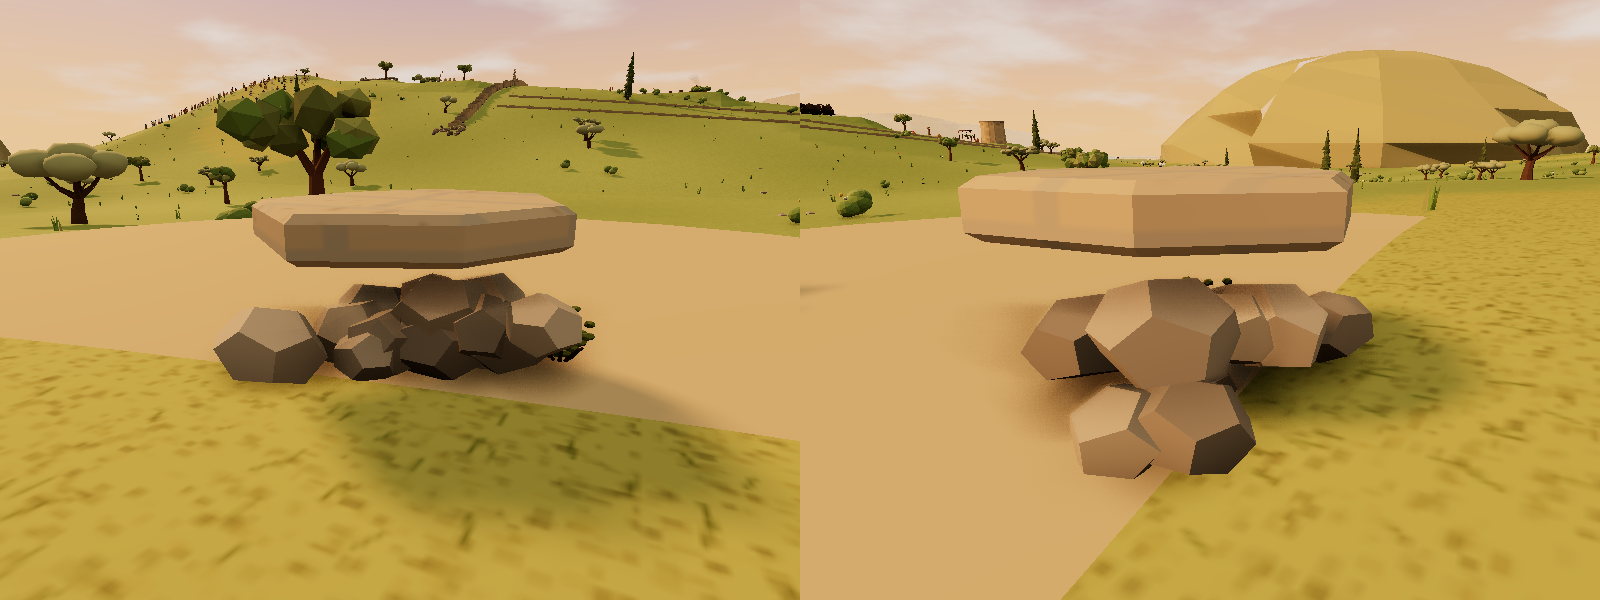
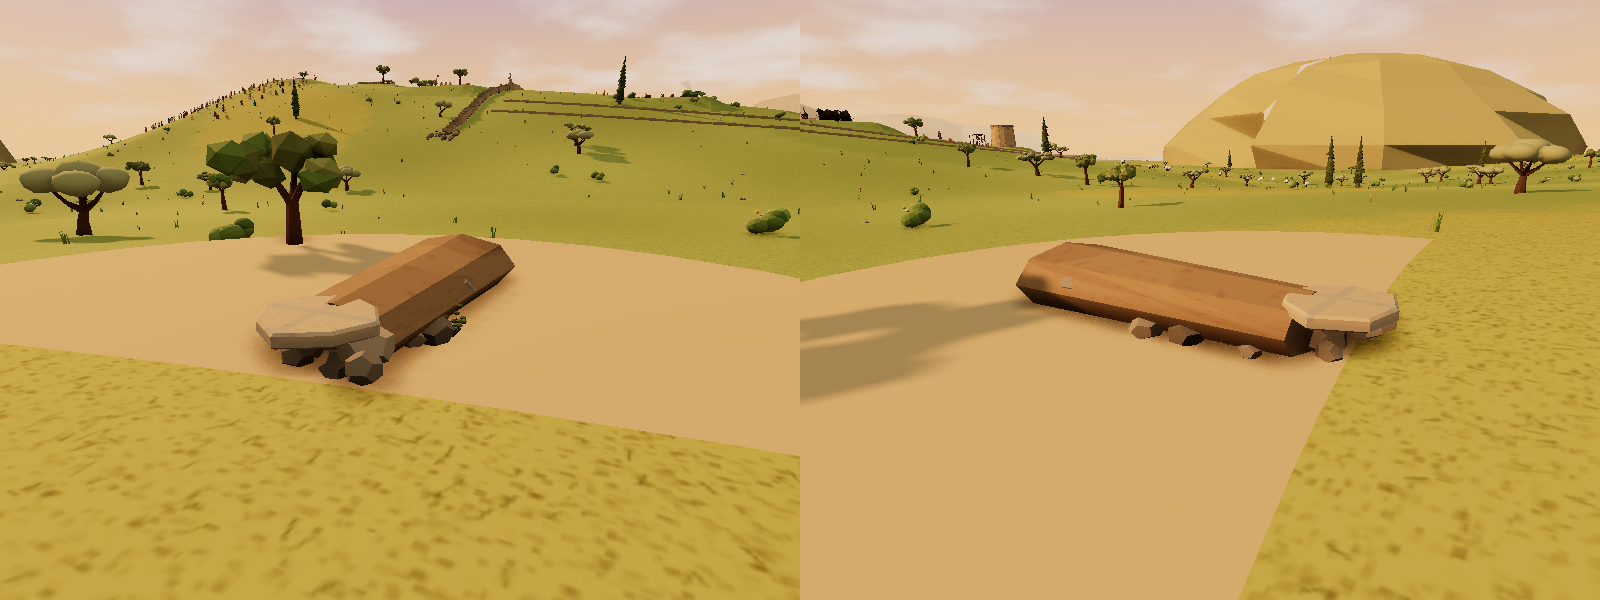
som models: terracotta hive stack on a coursed base, bank end with its bank, burn floor ring, tube-beam yoke
Claude-Session: https://claude.ai/code/session_011GTaBjBmrRYMxR8CbFEKPF

diff --git a/ltm-engine/objects/som.js b/ltm-engine/objects/som.js
@@ -91,14 +91,15 @@ def('som-mudbrick-wall', 'Low mud-brick wall of the yard', g => {
 
 // ---- the Ox Stall (6:21–25) ----
 def('som-yoke-on-peg', 'Yoke for two oxen, hung on its peg', g => {
-  dryWall(g, -1.3, -.4, 1.3, -.4, 2.0, .45);   // the stall's coursed stone wall behind
-  cy(g, .06, .06, .55, 8, mWoodDk, 0, 1.55, -.1, Math.PI / 2);   // one stout peg sticking out of the wall face
-  add(new THREE.TorusGeometry(.09, .022, 5, 10), mRope, 0, 1.5, .12, g);   // the cord loop over the peg
-  cy(g, .015, .015, .22, 4, mRope, 0, 1.38, .14);
-  const sh = new THREE.Shape(); sh.moveTo(-1, -.06); [[-.85, -.08], [-.75, -.1], [-.55, .02], [-.35, -.1], [-.2, -.08], [.2, -.08], [.35, -.1], [.55, .02], [.75, -.1], [.85, -.08], [1, -.06], [1, .1], [-1, .1]].forEach(([a, b]) => sh.lineTo(a, b));
-  add(new THREE.ExtrudeGeometry(sh, { depth: .16, bevelEnabled: true, bevelThickness: .02, bevelSize: .02, bevelSegments: 1 }), MM('somYokeWood', '#8e6a42', TEX.wood), 0, 1.18, .02, g);   // the carved beam hanging against the wall face, two neck hollows
-  for (const s of [-.55, .55]) { const bow = add(new THREE.TorusGeometry(.24, .04, 6, 16, Math.PI), mWoodLt, s, 1.16, .1, g); bow.rotation.z = Math.PI; for (const t of [-1, 1]) cy(g, .022, .022, .26, 5, mWoodDk, s + t * .24, 1.12, .1); }   // a U-bow hanging under each hollow
-  return 2.0; });
+  const fs = [mRock, mRockDk, MM('somFieldWarm', '#a8987c')]; for (let row = 0; row < 6; row++) for (let k = 0; k < 7; k++) { const b = boulder(g, R(.2, .26), fs[(row * 3 + k) % 3], -1.35 + k * .45 + (row % 2) * .22, row * .3 - .12, -.6, .9); if (b) b.scale.z = .5; }   // a rough fieldstone wall behind
+  cy(g, .05, .05, .45, 8, mWoodDk, 0, 1.62, -.15, Math.PI / 2);   // a stout peg in the wall
+  const wood = MM('somYokeWood', '#8e6a42', TEX.wood);
+  const pts = [[-1, -.06], [-.75, -.12], [-.55, -.02], [-.35, -.12], [0, -.04], [.35, -.12], [.55, -.02], [.75, -.12], [1, -.06]].map(([x, y]) => new THREE.Vector3(x, 1.25 + y, .22));
+  add(new THREE.TubeGeometry(new THREE.CatmullRomCurve3(pts), 30, .11, 10), wood, 0, 0, 0, g);   // a thick beam, carved with two neck hollows, hanging clear of the wall
+  for (const e of [-1, 1]) add(new THREE.SphereGeometry(.09, 8, 6), wood, e, 1.19, .22, g);
+  for (const s of [-.55, .55]) { const bow = add(new THREE.TorusGeometry(.25, .045, 6, 18, Math.PI), MM('somBowWood', '#b48a5a', TEX.wood), s, 1.16, .22, g); bow.rotation.z = Math.PI; }   // a bent wooden bow hanging under each hollow
+  const L = .36; const rp = cy(g, .018, .018, L, 4, mRope, 0, 1.44, .05); rp.rotation.x = .6;   // a short cord from the peg to the middle of the beam
+  return 1.75; });
 def('som-plough', 'Wooden plough (ard) with an iron share', g => {
   const sole = bx(g, .14, .12, 1.0, mWood, 0, .05, 0, 0, .15);   // the sole dragging along the ground
   const sh = new THREE.ConeGeometry(.09, .4, 4); sh.rotateX(Math.PI / 2); add(sh, mIron, 0, .02, .66, g).scale.x = 1.4;   // a big iron share on its point
@@ -227,28 +228,28 @@ def('som-charcoal-baskets', 'Rush baskets heaped with charcoal', g => {
     for (let i = 0; i < 34; i++) { const a = R(0, 6.3), d = Math.sqrt(R(0, 1)) * .36 * s; add(new THREE.DodecahedronGeometry(R(.05, .085), 0), coal, x + Math.cos(a) * d, .38 * s + (1 - d / (.36 * s)) * .2, z + Math.sin(a) * d, g).rotation.set(R(0, 3), R(0, 3), 0); } }   // a mounded heap of dark grey chunks
   return .7; });
 def('som-ash-ring', 'Old burn floor of an earlier mound', g => {
-  const floor = MM('somBurnFloor', '#4a4540'), floor2 = MM('somBurnFloor2', '#5c544a', null, { transparent: true, opacity: .7 }), coal = MM('somCoalG2', '#2e2b28'), ash = MM('somAshL', '#9c9890');
-  const blot = (r, m, y, n = 14) => { const sh = new THREE.Shape(); for (let i = 0; i < n; i++) { const a = i / n * 6.283, rr = r * R(.6, 1.15); i ? sh.lineTo(Math.cos(a) * rr, Math.sin(a) * rr) : sh.moveTo(Math.cos(a) * rr, Math.sin(a) * rr); } const o = add(new THREE.ShapeGeometry(sh), m, 0, y, 0, g); o.rotation.x = -Math.PI / 2; return o; };
-  blot(1.5, floor, .05, 18);   // a ragged-edged patch of blackened earth
-  for (let i = 0; i < 9; i++) { const o = blot(R(.3, .7), i % 2 ? floor : floor2, .045 + i * .001, 9); o.position.x = R(-1.6, 1.6); o.position.z = R(-1.6, 1.6); }   // smudges spilling past the edge
-  for (let i = 0; i < 7; i++) { const o = blot(R(.15, .35), ash, .056, 8); o.position.x = R(-.9, .9); o.position.z = R(-.9, .9); }   // drifts of ash
-  for (let i = 0; i < 40; i++) { const a = R(0, 6.3), d = Math.sqrt(R(0, 1)) * 1.6; const c = add(new THREE.DodecahedronGeometry(R(.03, .07), 0), coal, Math.cos(a) * d, .06, Math.sin(a) * d, g); c.scale.y = .5; }
+  const rimC = MM('somBurnRim', '#2e2a26'), ashC = MM('somAshPale2', '#7c7872'), soot = MM('somSootFade', '#5a5248', null, { transparent: true, opacity: .45 }), coal = MM('somCoalG2', '#2e2b28');
+  const blot = (r, m, y, n = 16) => { const sh = new THREE.Shape(); for (let i = 0; i < n; i++) { const a = i / n * 6.283, rr = r * R(.8, 1.12); i ? sh.lineTo(Math.cos(a) * rr, Math.sin(a) * rr) : sh.moveTo(Math.cos(a) * rr, Math.sin(a) * rr); } const o = add(new THREE.ShapeGeometry(sh), m, 0, y, 0, g); o.rotation.x = -Math.PI / 2; return o; };
+  blot(2.0, soot, .04, 20); blot(1.6, rimC, .05, 20); blot(1.05, ashC, .06, 16);   // soot fading out, a dark charcoal ring, pale ash in the middle
+  for (let i = 0; i < 70; i++) { const a = R(0, 6.3), d = R(1.0, 1.65); const c = add(new THREE.DodecahedronGeometry(R(.04, .09), 0), coal, Math.cos(a) * d, .07, Math.sin(a) * d, g); c.scale.y = .6; }   // charcoal heaped in the rim
   return .1; });
 
 // ---- the Bee Bank (5:31–35), rebuilt 2026-11-18: one walled bank, the hive pipes set into its far end ----
-def('som-bee-wall', 'Freestanding stack of clay hive pipes on a stone base', g => {
-  const pipe = MM('somPipeLong', '#c9a27a', TEX.pot), plug = MM('somPipePlug2', '#d9c7a2', TEX.plaster), cap = MM('somCapSlab', '#b8ae9a', TEX.stone);
-  for (let i = 0; i < 9; i++) boulder(g, R(.22, .3), i % 2 ? mRock : mRockDk, -.75 + (i % 5) * .38 + R(-.05, .05), -.05, -.25 + Math.floor(i / 5) * .45, .55);   // a low base of field stones
-  const rows = [4, 3, 2]; rows.forEach((n, row) => { for (let k = 0; k < n; k++) { const x = (k - (n - 1) / 2) * .4, y = .45 + row * .34; cy(g, .17, .17, 1.1, 14, pipe, x, y, 0, Math.PI / 2); cy(g, .15, .15, .02, 12, plug, x, y, .56, Math.PI / 2); add(new THREE.CircleGeometry(.035, 8), mDark, x, y - .06, .575, g); } });   // long clay pipes stacked 4-3-2, mud-sealed ends with a small entrance
-  slab(g, .8, .1, cap, 0, 1.28, 0, 7); for (const sx of [-.62, .62]) bx(g, .14, .9, .5, mRock, sx, .42, 0);   // a flat stone laid on top, resting on two upright stones at the sides   // a flat stone laid on top to shade them
-  for (let i = 0; i < 16; i++) { const b = add(new THREE.SphereGeometry(.02, 5, 4), MM('somBee', '#3a2a10'), R(-.7, .7), R(.35, 1.2), R(.62, .9), g); b.scale.x = 1.7; }
-  return 1.45; });
+def('som-bee-wall', 'Freestanding stack of clay hive pipes on a low stone base', g => {
+  const pipe = MM('somPipeTerra', '#b56a42'), plug = MM('somPipePlugMud', '#8e7454', TEX.plaster), cap = MM('somCapSlab', '#b8ae9a', TEX.stone);
+  dryWall(g, -.95, -.35, .95, -.35, .3, .2); dryWall(g, -.95, .35, .95, .35, .3, .2); bx(g, 1.9, .3, .55, mRockDk, 0, 0, 0);   // a low coursed stone base
+  const rows = [4, 3, 2]; rows.forEach((n, row) => { for (let k = 0; k < n; k++) { const x = (k - (n - 1) / 2) * .38, y = .48 + row * .33; cy(g, .18, .18, 1.0, 14, pipe, x, y, 0, Math.PI / 2); cy(g, .16, .16, .02, 12, plug, x, y, .51, Math.PI / 2); add(new THREE.CircleGeometry(.04, 8), mDark, x, y - .07, .525, g); } });   // terracotta pipes stacked tight, mud-sealed ends, dark entrance holes
+  slab(g, .62, .1, cap, 0, 1.31, 0, 7);   // a flat stone resting on the top pipes
+  for (let i = 0; i < 16; i++) { const b = add(new THREE.SphereGeometry(.02, 5, 4), MM('somBee', '#3a2a10'), R(-.7, .7), R(.35, 1.2), R(.58, .85), g); b.scale.x = 1.7; }
+  return 1.42; });
 
 
 def('som-bank-end', 'Low end of a field bank, capped with a flat stone', g => {
-  for (let i = 0; i < 16; i++) boulder(g, R(.24, .34), i % 3 ? mRock : mRockDk, R(-.55, .55), 0, R(-.4, .4), .75);   // a rough heap of field stones
-  slab(g, .62, .14, MM('somCapStone2', '#cdc3ae', TEX.stone), 0, .36, 0, 7); thornBush(g, .7, 0, -.5, .6);
-  return .9; });
+  const earth = MM('somBankEarth2', '#857660');
+  const geo = new THREE.CylinderGeometry(.55, .75, 3.2, 8, 1); geo.rotateX(Math.PI / 2); const bk = add(geo, earth, 0, .28, -1.7, g); bk.scale.y = .5;   // the bank running off behind
+  for (let i = 0; i < 26; i++) boulder(g, R(.12, .24), i % 3 ? mRock : mRockDk, R(-.6, .6), i < 14 ? 0 : R(.15, .3), R(-2.9, .4), .7);   // smaller field stones heaped along it and at its end
+  slab(g, .5, .08, MM('somCapStone2', '#cdc3ae', TEX.stone), 0, .44, .1, 8); thornBush(g, .6, 0, -1.2, .6);
+  return .6; });
 def('som-scarecrow', 'Scarecrow in an old robe', g => {
   const robe = MM('somRagRobe', '#8a6a4a', TEX.cloth), sash = MM('somRagSash', '#a8523a', TEX.cloth);
   cy(g, .045, .05, 2.3, 6, mWood, 0, 0, 0); cy(g, .035, .035, 1.5, 6, mWood, 0, 1.65, 0, 0, 0, Math.PI / 2);   // pole and cross-stick
